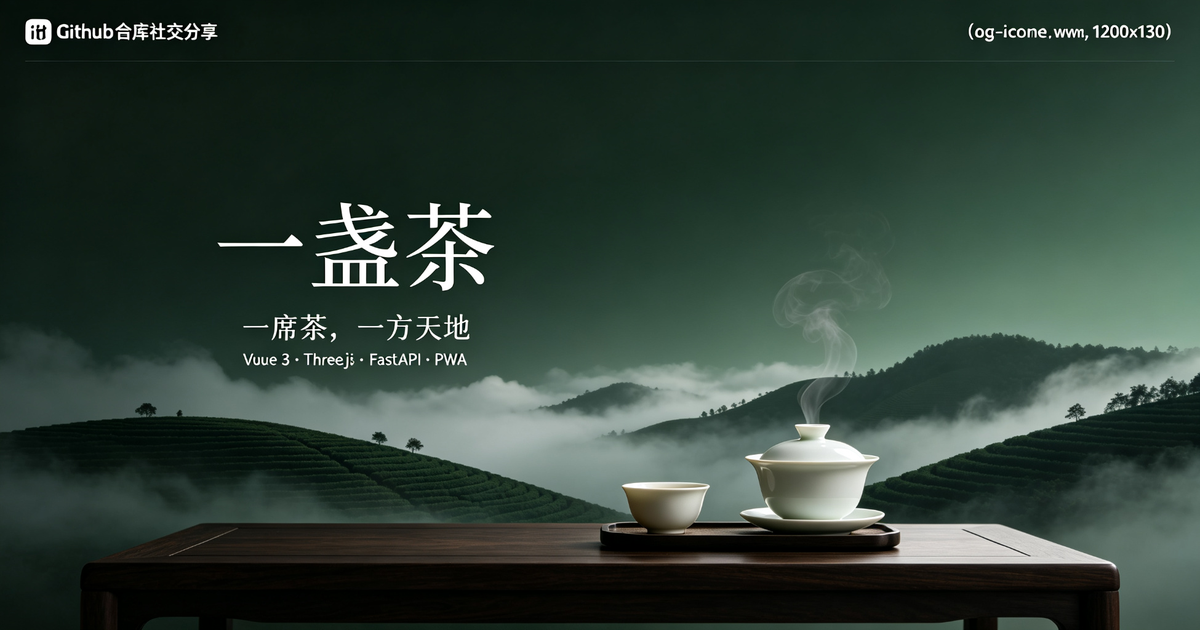
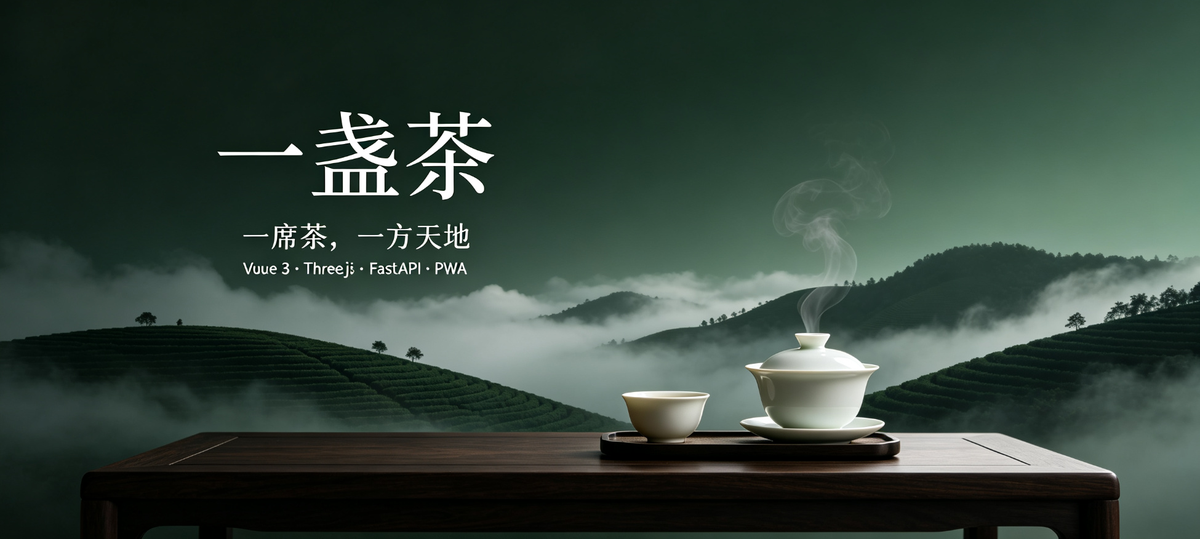
docs: 裁掉og封面生成水印

diff --git a/docs/promotion/awesome-and-metadata.md b/docs/promotion/awesome-and-metadata.md
@@ -1,10 +1,14 @@
 # Awesome 列表 PR 文案 + GitHub 元数据
 
----
+
+
+***
 
 ## 一、GitHub 仓库元数据（你在 Settings 页直接复制粘贴）
 
 ### About 描述（一行）
+
+
 
 ```
 沉浸式在线茶道：Vue 3 + Three.js 3D 茶席，Dexie 离线优先；FastAPI + PostgreSQL，可自托管。
@@ -12,25 +16,61 @@
 
 ### Topics 标签（一行一个，全选）
 
+
+
 ```
 vue3
+
 typescript
+
 threejs
+
 tresjs
+
 vite
+
 pwa
+
 offline-first
+
 fastapi
+
 postgresql
+
 dexie
+
 indexeddb
+
 tailwindcss
+
 tea
+
 gongfu-cha
+
 webgl
 ```
 
-> 旧 topics 里的 `docker` 删掉（已弃用）；补 `threejs` / `tresjs` / `pwa` / `offline-first` 这些搜索量大但你之前没挂的标签。
+> 旧 topics 里的 
+>
+> `docker`
+>
+>  删掉（已弃用）；补 
+>
+> `threejs`
+>
+>  / 
+>
+> `tresjs`
+>
+>  / 
+>
+> `pwa`
+>
+>  / 
+>
+> `offline-first`
+>
+>  这些搜索量大但你之前没挂的标签。
 
 ### Website 字段
 
@@ -40,7 +80,9 @@ webgl
 
 GitHub → Settings → Social preview 上传 `docs/screenshots/og-cover.png`。这是分享到 Twitter/LinkedIn 时显示的大图。
 
----
+
+
+***
 
 ## 二、awesome 列表 PR
 
@@ -50,6 +92,8 @@ GitHub → Settings → Social preview 上传 `docs/screenshots/og-cover.png`。
 
 PR 标题：
 
+
+
 ```
 Add Tea Ceremony — immersive 3D gongfu tea experience built with Vue 3 + TresJS
 ```
@@ -58,13 +102,17 @@ Add Tea Ceremony — immersive 3D gongfu tea experience built with Vue 3 + TresJ
 
 描述：
 
-```markdown
-- [Tea Ceremony](https://github.com/qiuqianyi66/tea-ceremony) — An immersive 3D gongfu tea experience built with Vue 3 + TypeScript + TresJS (Three.js). Offline-first via Dexie/IndexedDB, PWA-installable, with a FastAPI + PostgreSQL backend. Live demo: https://qiuqianyi66.github.io/tea-ceremony/
+
+
+```
+\- \[Tea Ceremony]\(https://github.com/qiuqianyi66/tea-ceremony) — An immersive 3D gongfu tea experience built with Vue 3 + TypeScript + TresJS (Three.js). Offline-first via Dexie/IndexedDB, PWA-installable, with a FastAPI + PostgreSQL backend. Live demo: https://qiuqianyi66.github.io/tea-ceremony/
 ```
 
 ### 2. brenty/awesome-threejs（或某活跃的 threejs awesome）
 
 PR 标题：
+
+
 
 ```
 Add Tea Ceremony — a 3D tea brewing scene built with Three.js
@@ -72,13 +120,17 @@ Add Tea Ceremony — a 3D tea brewing scene built with Three.js
 
 描述：
 
-```markdown
-- [Tea Ceremony](https://github.com/qiuqianyi66/tea-ceremony) — A stylized 3D gongfu tea table scene (Three.js / TresJS) with steam particles, tea liquor color progression, and KTX2 compressed textures. Full brewing loop, offline-first. Live demo: https://qiuqianyi66.github.io/tea-ceremony/
+
+
+```
+\- \[Tea Ceremony]\(https://github.com/qiuqianyi66/tea-ceremony) — A stylized 3D gongfu tea table scene (Three.js / TresJS) with steam particles, tea liquor color progression, and KTX2 compressed textures. Full brewing loop, offline-first. Live demo: https://qiuqianyi66.github.io/tea-ceremony/
 ```
 
 ### 3. davidlynch/awesome-pwa（或某活跃的 pwa awesome）
 
 PR 标题：
+
+
 
 ```
 Add Tea Ceremony — offline-first PWA tea experience
@@ -86,26 +138,42 @@ Add Tea Ceremony — offline-first PWA tea experience
 
 描述：
 
-```markdown
-- [Tea Ceremony](https://github.com/qiuqianyi66/tea-ceremony) — Offline-first PWA (vite-plugin-pwa, Dexie + IndexedDB) for an immersive 3D tea ceremony. Records sync when back online; installable on mobile and desktop. Live demo: https://qiuqianyi66.github.io/tea-ceremony/
+
+
+```
+\- \[Tea Ceremony]\(https://github.com/qiuqianyi66/tea-ceremony) — Offline-first PWA (vite-plugin-pwa, Dexie + IndexedDB) for an immersive 3D tea ceremony. Records sync when back online; installable on mobile and desktop. Live demo: https://qiuqianyi66.github.io/tea-ceremony/
 ```
 
-> 提 PR 前先看目标仓库的 CONTRIBUTING——有些要求最新 commit 在 6 个月内、有些要求 star 数门槛。被拒了不丢人，换一个列表。
+> 提 PR 前先看目标仓库的 CONTRIBUTING—— 有些要求最新 commit 在 6 个月内、有些要求 star 数门槛。被拒了不丢人，换一个列表。
 
----
+
+
+***
 
 ## 三、其他可发现性优化
 
+
+
 1. **GitHub Profile README**：如果你有 `qiuqianyi66/qiuqianyi66` profile 仓库，把「一盏茶」列成置顶项目，加一句描述和 demo 链接。
-2. **Topics 页曝光**：挂了上面那些 topic 后，别人在 github.com/topics/vue3 这类页能刷到你，这是自然流量的大头。
+
+2. **Topics 页曝光**：挂了上面那些 topic 后，别人在 [github.com/topics/vue3](https://github.com/topics/vue3) 这类页能刷到你，这是自然流量的大头。
+
 3. **Releases**：现在只有 v1.0.0（2 周前）。下一次大改动后打个 v1.1.0 release，写清楚 changelog——release 会出现在项目的 Releases 页和你的动态流里。
+
 4. **GitHub Discussions**：Settings → 打开 Discussions，开一个「你最喜欢哪款茶」的讨论帖，给访客一个评论入口。
 
----
+
+
+***
 
 ## 四、不要做的事
 
-- 不要买 star、不要去 r/programming 之类泛版块刷 Show & Tell——容易被判定 spam
-- 不要把 README 塞满徽章（现在 4 个刚好，再加就廉价了）
-- 不要在 awesome 列表里写"best/top/amazing"这类主观词，客观描述功能即可
-- Demo 打不开之前不要发任何帖
+
+
+* 不要买 star、不要去 r/programming 之类泛版块刷 Show & Tell—— 容易被判定 spam
+
+* 不要把 README 塞满徽章（现在 4 个刚好，再加就廉价了）
+
+* 不要在 awesome 列表里写 "best/top/amazing" 这类主观词，客观描述功能即可
+
+* Demo 打不开之前不要发任何帖
